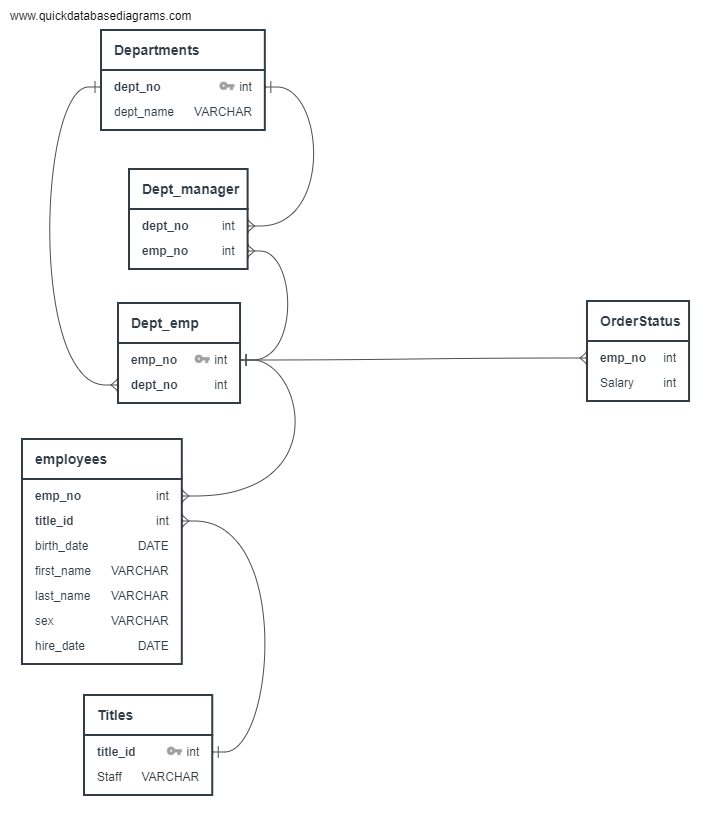
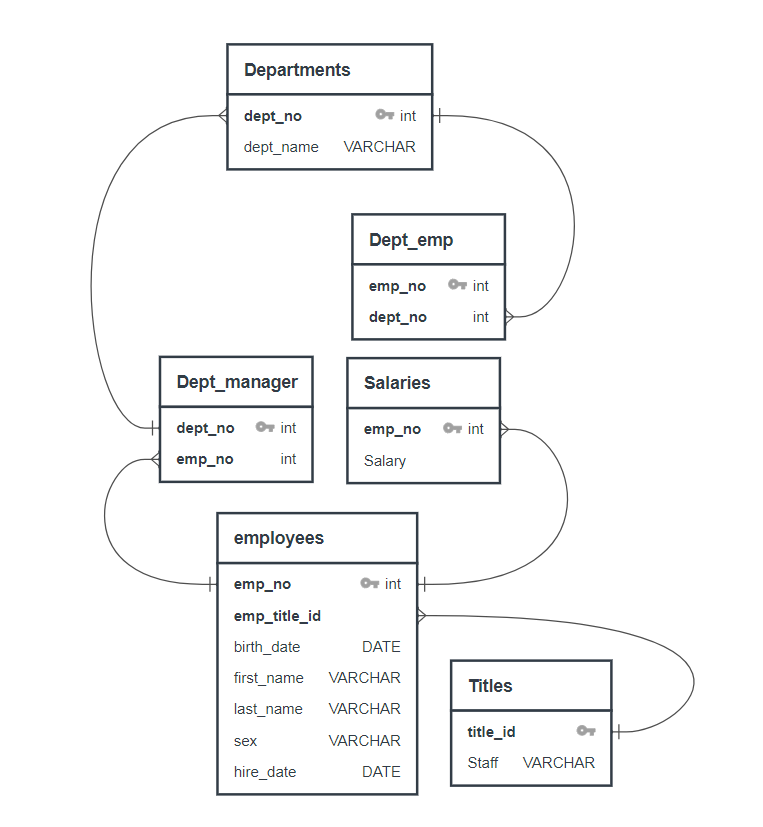
updated files

diff --git a/README.md b/README.md
@@ -1,1 +1,41 @@
-# project
+**#Data Engineering**
+
+PK - Primary Key
+FK - Foreign Key
+
+https://app.quickdatabasediagrams.com/#/
+
+Departments
+--
+dept_no int pk fk >- Dept_manager.dept_no
+dept_name VARCHAR
+
+Dept_emp
+--
+emp_no int pk     
+dept_no int fk >- Departments.dept_no
+
+Dept_manager
+--
+dept_no int pk
+emp_no int fk >- employees.emp_no
+
+Salaries
+--
+emp_no int pk fk >- employees.emp_no
+Salary 
+
+Titles
+-
+title_id pk
+Staff VARCHAR
+
+employees
+--
+emp_no int pk 
+emp_title_id fk >- Titles.title_id
+birth_date DATE	
+first_name VARCHAR
+last_name VARCHAR	
+sex VARCHAR
+hire_date DATE
